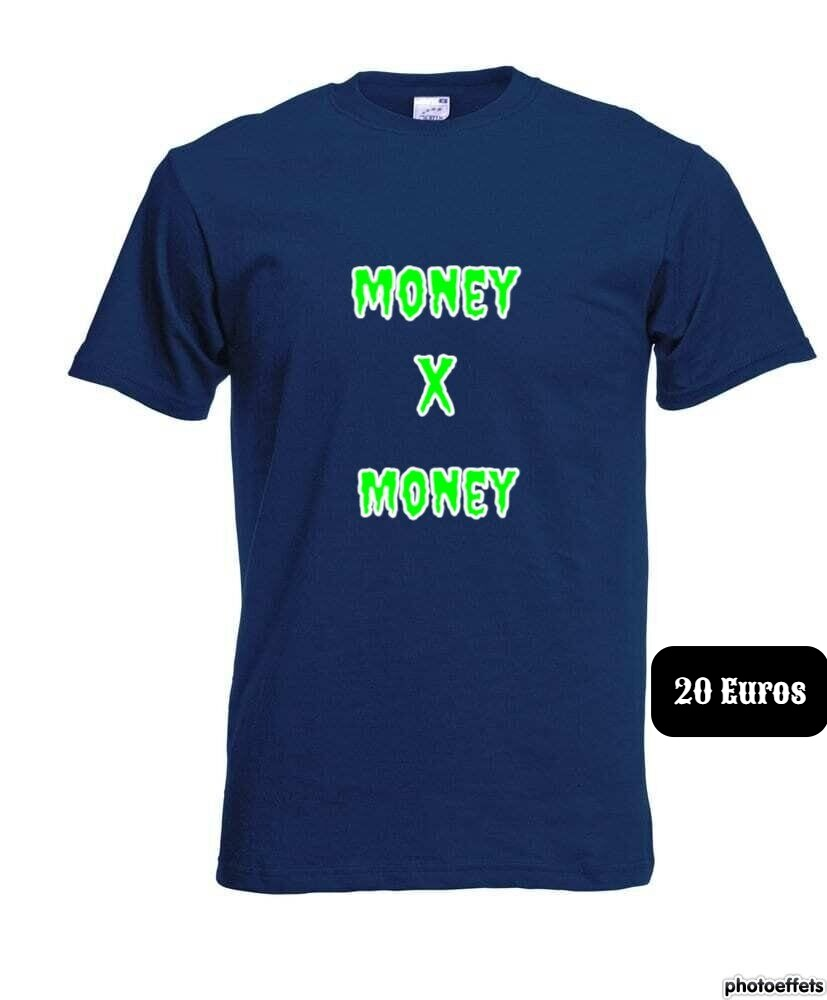
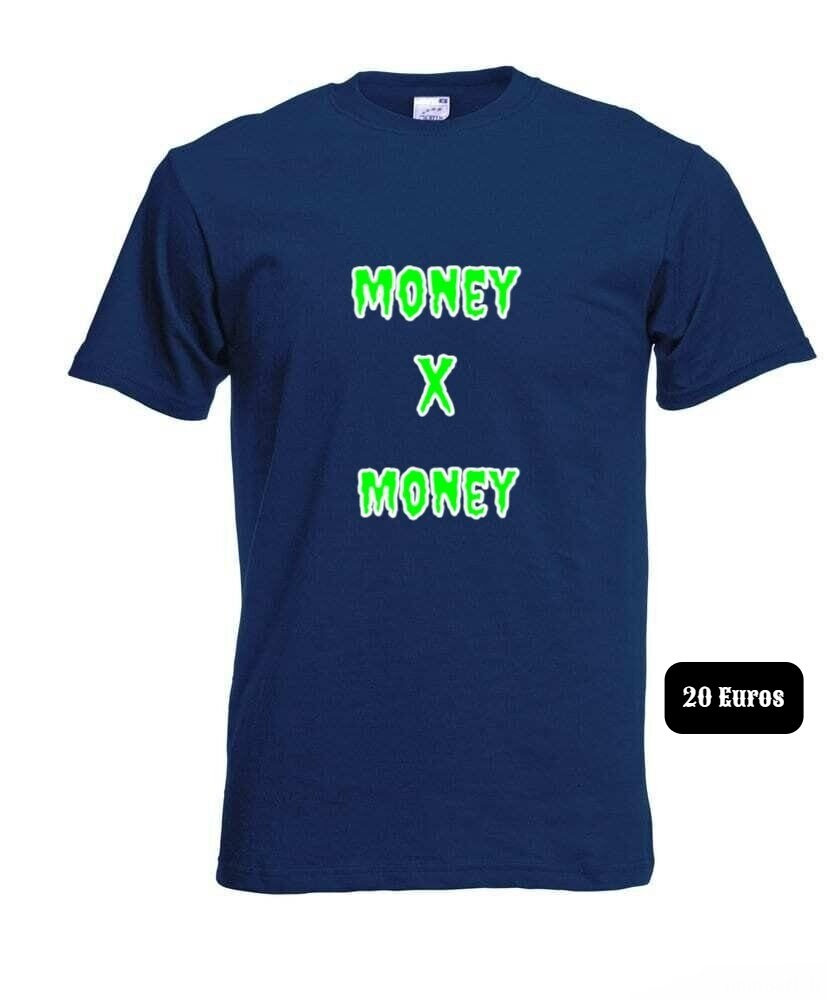
commit

Changed region(s): [[0.786, 0.62, 1.0, 0.744], [0.8767, 0.961, 1.0, 1.0]]

diff --git a/MoneyXMoney/src/main/resources/templates/shop.html b/MoneyXMoney/src/main/resources/templates/shop.html
@@ -76,7 +76,7 @@
         </div>
 </form>
 <div class="images">
-    <img src="produit22.jpg" alt="Image" height="500" width="500">
+    <img src="produit2.jpg" alt="Image" height="500" width="500">
 </div>
 <script>
       // The function below will start the confirmation dialog
